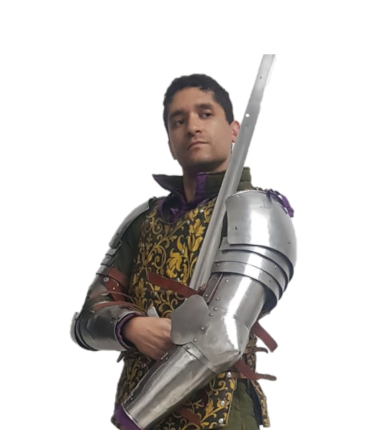
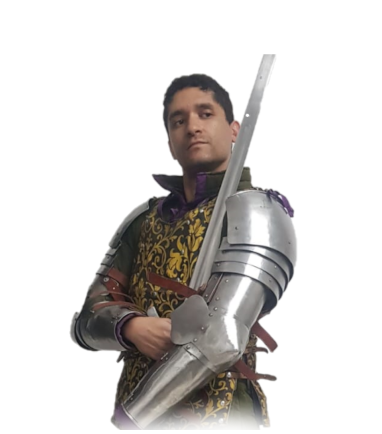
14:32 - 10/03/2023

Changed region(s): [[0.288, 0.8986, 0.7199, 1.0]]

diff --git a/Site/hazyel.html b/Site/hazyel.html
@@ -128,20 +128,13 @@
     
     
     <main role="main">
-        
-        <!--<section class="main-banner-membro" id="home" style="background-image: url(/Site/images/home-video.png)">
-            <iframe
-                src="https://player.vimeo.com/video/715551758?autoplay=1&h=8914dac98b&background=1&loop=1&autoplay=1&muted=1&byline=0&title=0&quality=1080p"
-                allow="autoplay; fullscreen; picture-in-picture" webkitallowfullscreen="" mozallowfullscreen=""
-                allowfullscreen=""></iframe>
-        </section>-->
         <section class="membro-section-principal">
             <div class=" membro-principal">
                     <div class="membro-foto">
                         <picture>
                         <source media="(min-width:1020px )" srcset="images/integrantes/Pessoal/2-capa.png">
                         <source media="(min-width:0 )" srcset="images/integrantes/Pessoal/2-capa-mobile.png">
-                        <img src="images/integrantes/Pessoal/2-capa.png" alt="">
+                        <img src="images/integrantes/Pessoal/2-capa-duo.png" alt="">
                         </picture> 
                     </div>
                     <div class="membro-texto">
@@ -159,6 +152,11 @@
                         </ul>
                 </div>
             </div>                 
+        </section>
+        <section class="mapeamento-section">
+            <div>
+                <img src="images/integrantes/2-capa.png" alt="">
+            </div>
         </section>
         <section class="membros-section home" id="membros-id">
             <div class="membros">
